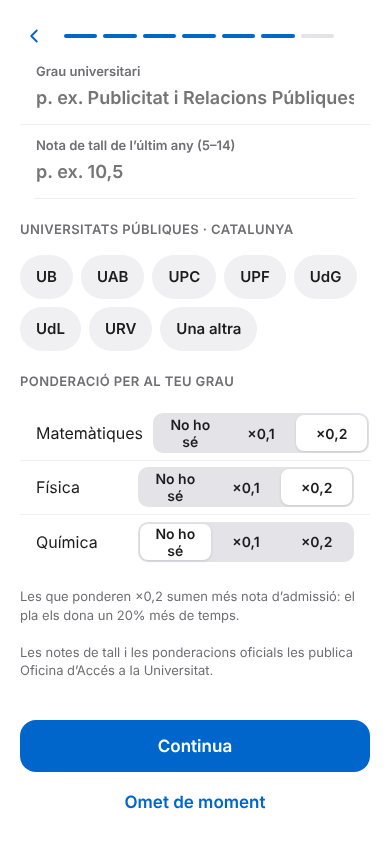
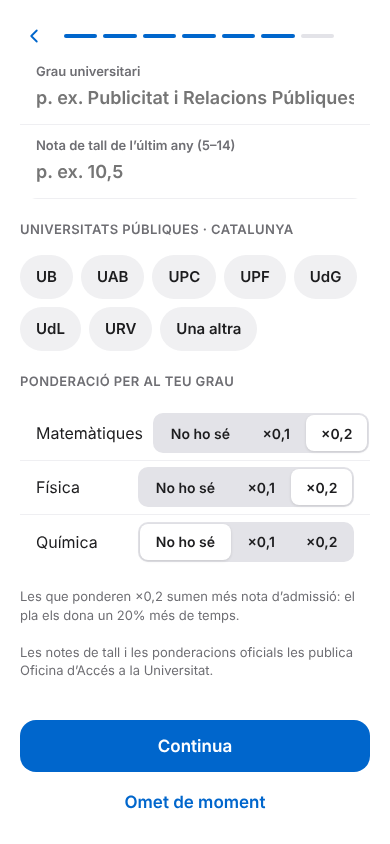
Ajusta el selector de ponderació perquè hi càpiga «No ho sé»
Claude-Session: https://claude.ai/code/session_01VCkwEeyJrtvfJ4X5kqKUtV

Changed region(s): [[0.4, 0.4929, 0.7077, 0.6777], [0.5846, 0.4929, 0.8923, 0.6161], [0.7692, 0.6161, 0.8615, 0.6469]]

diff --git a/dist/index.html b/dist/index.html
@@ -157,6 +157,7 @@ input[type=number]{-moz-appearance:textfield}
 .fhint{margin-top:auto;display:flex;align-items:center;justify-content:center;gap:6px;font-size:13px;font-weight:600;color:#AEAEB2}
 .fhint.on{color:var(--accent)}
 .fhint.on svg{transform:rotate(90deg)}
+.seg button{white-space:nowrap}
 .star-btn{width:44px;height:44px;margin:-10px -10px -10px 0;border:none;background:transparent;color:#C7C7CC;display:flex;align-items:center;justify-content:center;padding:0;flex:0 0 auto}
 .star-btn[aria-pressed=true]{color:#B25000}
 
@@ -886,7 +887,7 @@ function viewOnboarding() {
     if (pIds.length) {
       body += section('Ponderació per al teu grau') + '<div class="list">' + pIds.map((id) => {
         const w = d.ponder && d.ponder[id];
-        return '<div class="inline-field"><span style="flex:1">' + esc(SUBJECTS[id].short) + '</span><div class="seg" style="width:216px;flex:0 0 auto">' +
+        return '<div class="inline-field"><span style="flex:1">' + esc(SUBJECTS[id].short) + '</span><div class="seg" style="width:200px;flex:0 0 auto;grid-template-columns:1.5fr 1fr 1fr">' +
           segBtn('No ho sé', !w, 'setPonder', id + ':0') + segBtn('×0,1', w === 0.1, 'setPonder', id + ':0.1') + segBtn('×0,2', w === 0.2, 'setPonder', id + ':0.2') + '</div></div>';
       }).join('') + '</div><span class="small">Les que ponderen ×0,2 sumen més nota d’admissió: el pla els dona un 20% més de temps.</span>';
     }

diff --git a/src/app.js b/src/app.js
@@ -229,7 +229,7 @@ function viewOnboarding() {
     if (pIds.length) {
       body += section('Ponderació per al teu grau') + '<div class="list">' + pIds.map((id) => {
         const w = d.ponder && d.ponder[id];
-        return '<div class="inline-field"><span style="flex:1">' + esc(SUBJECTS[id].short) + '</span><div class="seg" style="width:216px;flex:0 0 auto">' +
+        return '<div class="inline-field"><span style="flex:1">' + esc(SUBJECTS[id].short) + '</span><div class="seg" style="width:200px;flex:0 0 auto;grid-template-columns:1.5fr 1fr 1fr">' +
           segBtn('No ho sé', !w, 'setPonder', id + ':0') + segBtn('×0,1', w === 0.1, 'setPonder', id + ':0.1') + segBtn('×0,2', w === 0.2, 'setPonder', id + ':0.2') + '</div></div>';
       }).join('') + '</div><span class="small">Les que ponderen ×0,2 sumen més nota d’admissió: el pla els dona un 20% més de temps.</span>';
     }

diff --git a/src/style.css b/src/style.css
@@ -149,5 +149,6 @@ input[type=number]{-moz-appearance:textfield}
 .fhint{margin-top:auto;display:flex;align-items:center;justify-content:center;gap:6px;font-size:13px;font-weight:600;color:#AEAEB2}
 .fhint.on{color:var(--accent)}
 .fhint.on svg{transform:rotate(90deg)}
+.seg button{white-space:nowrap}
 .star-btn{width:44px;height:44px;margin:-10px -10px -10px 0;border:none;background:transparent;color:#C7C7CC;display:flex;align-items:center;justify-content:center;padding:0;flex:0 0 auto}
 .star-btn[aria-pressed=true]{color:#B25000}
